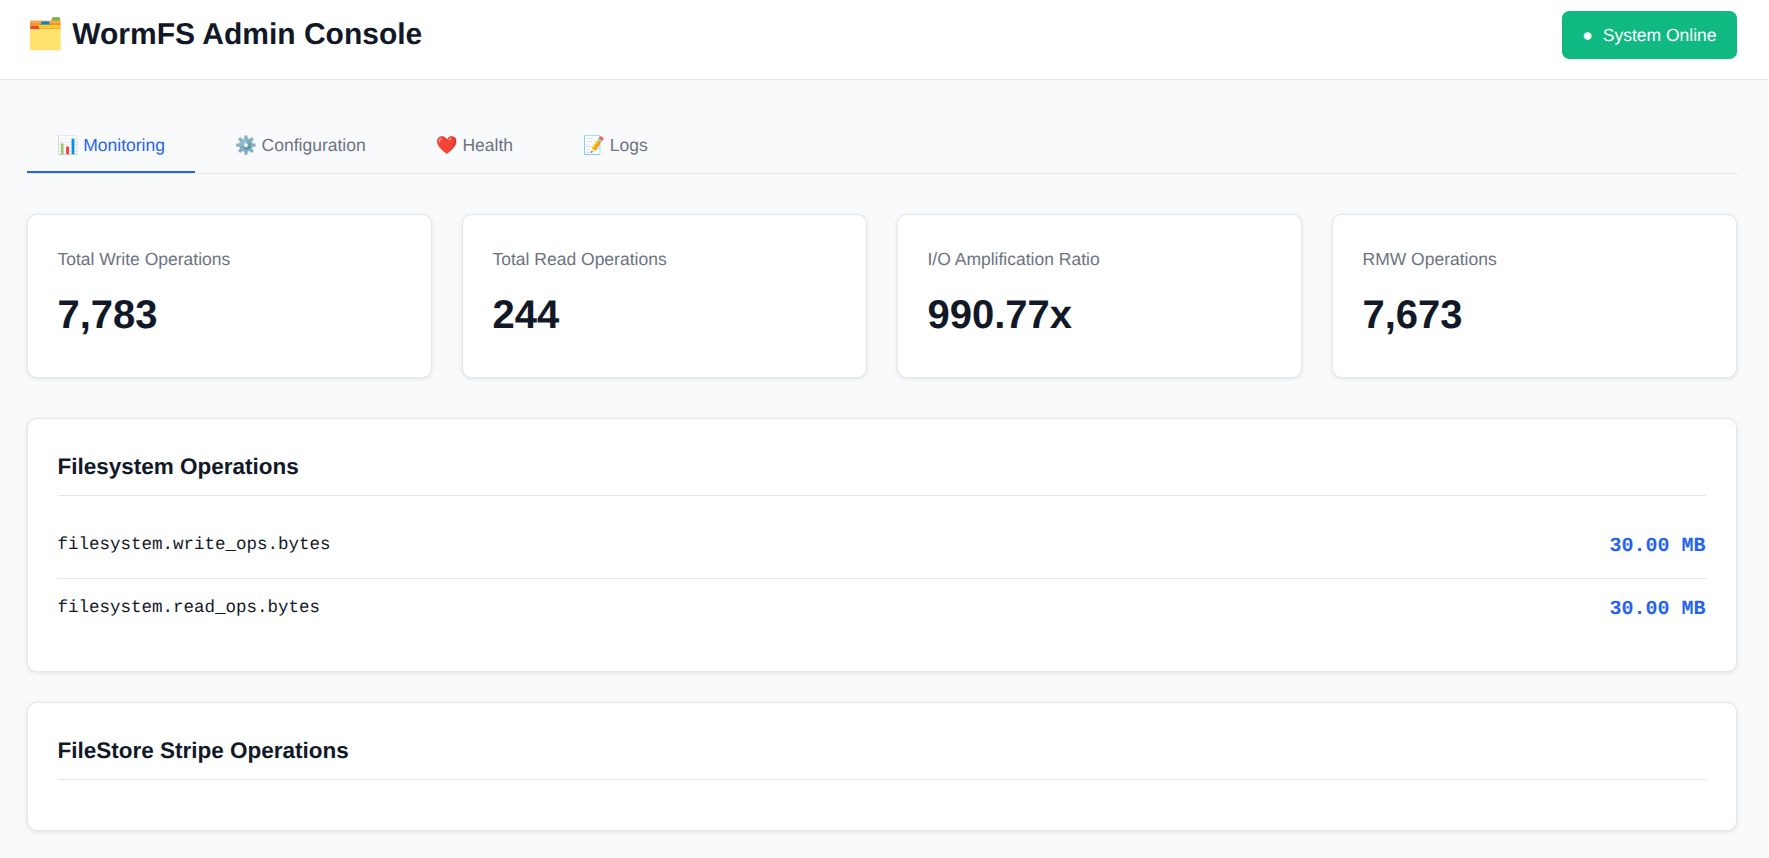
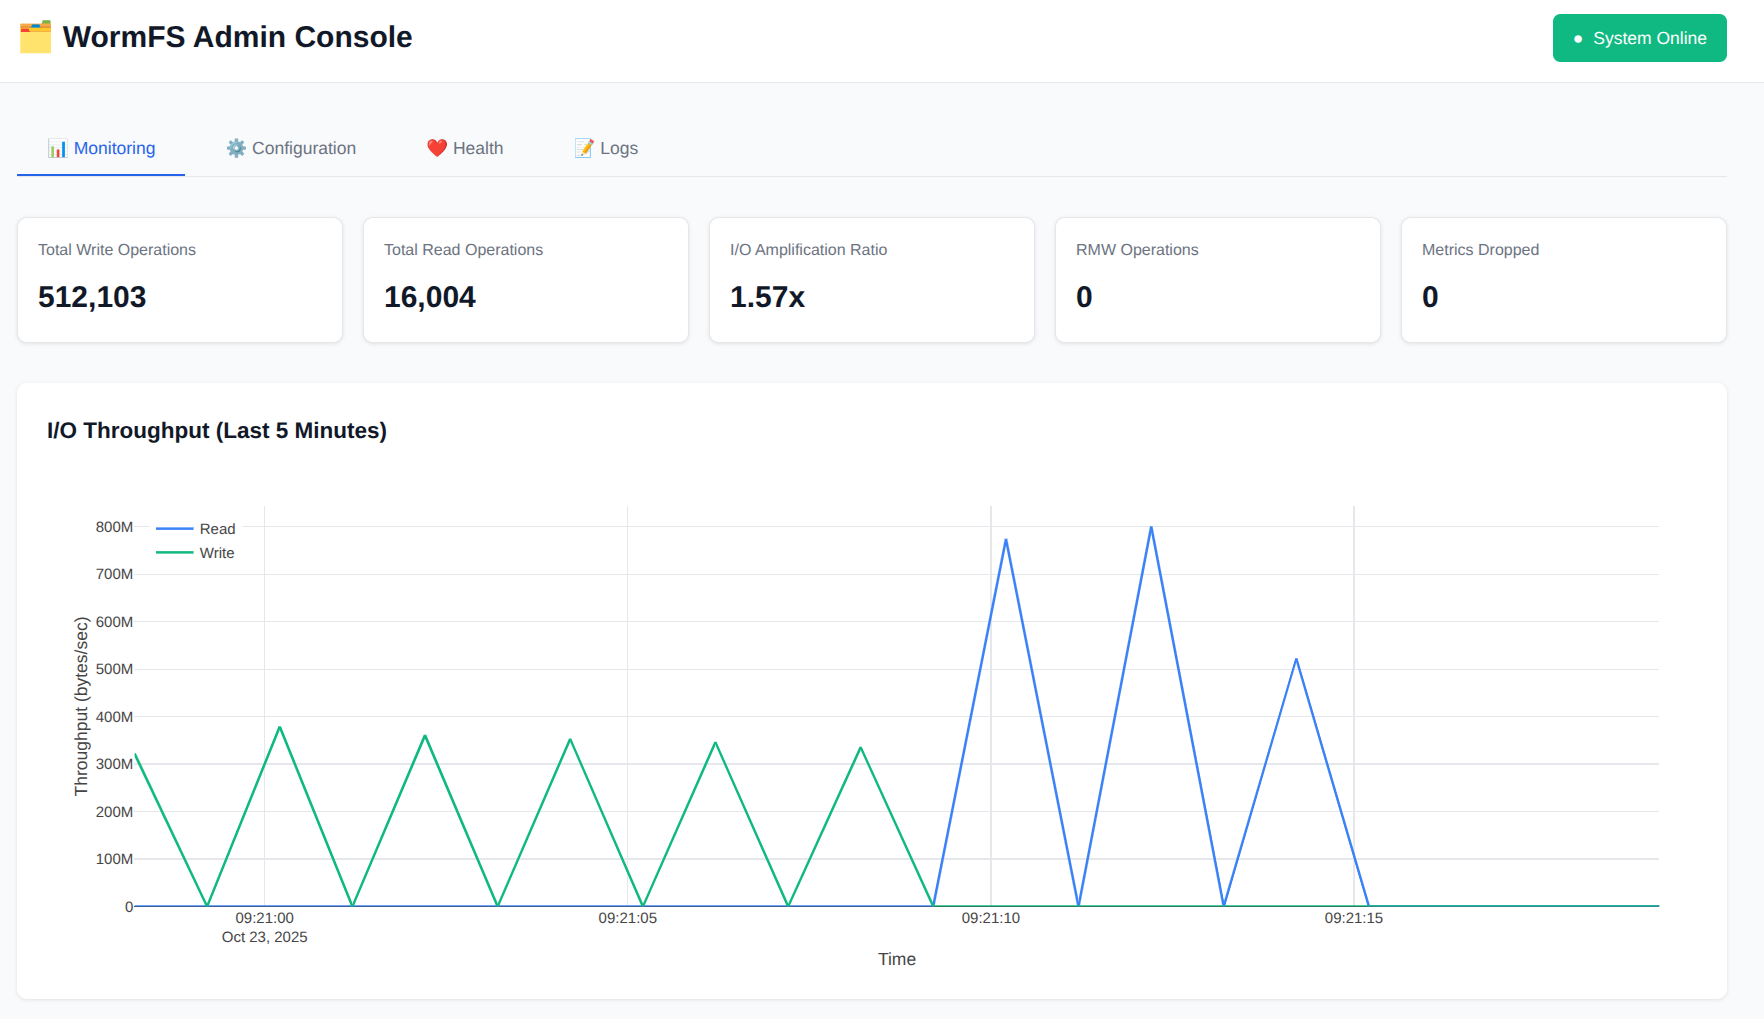
Updating README with new UI image

diff --git a/README.md b/README.md
@@ -8,6 +8,10 @@ WormFS, short for write-once-read-many file system, is a user-space distributed 
 
 Much of the architecture of this project is inspired by LizardFS' simplicity with a goal of offering greater control and visibility over how chunks are stored, replicated, and recovered.
 
+<p align="center">
+<img src="docs/images/admin_ui.png" width="600">
+</p>
+
 ## 📊 Project Status
 
 **Current Phase:** ✨ Phase 1 Complete! ✨
